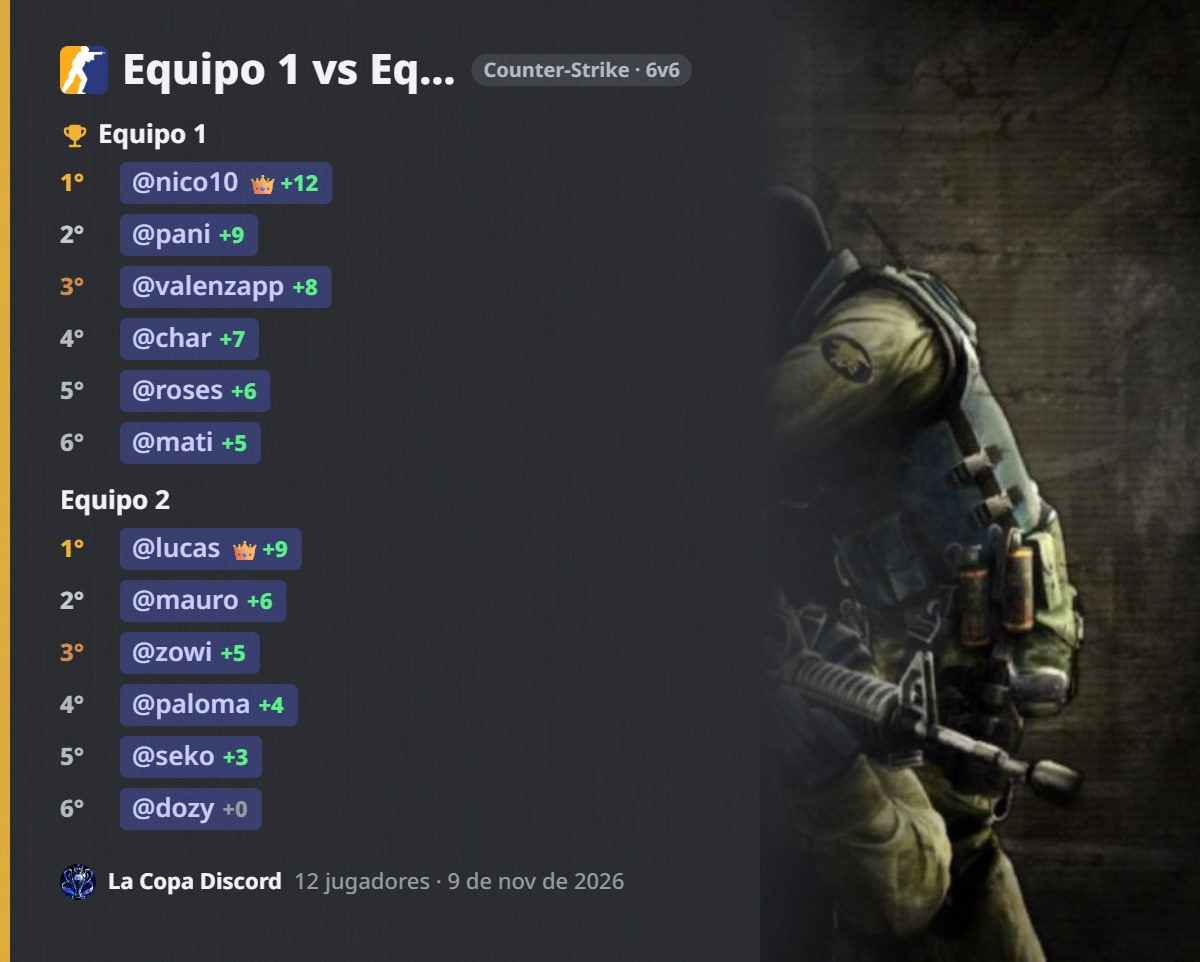
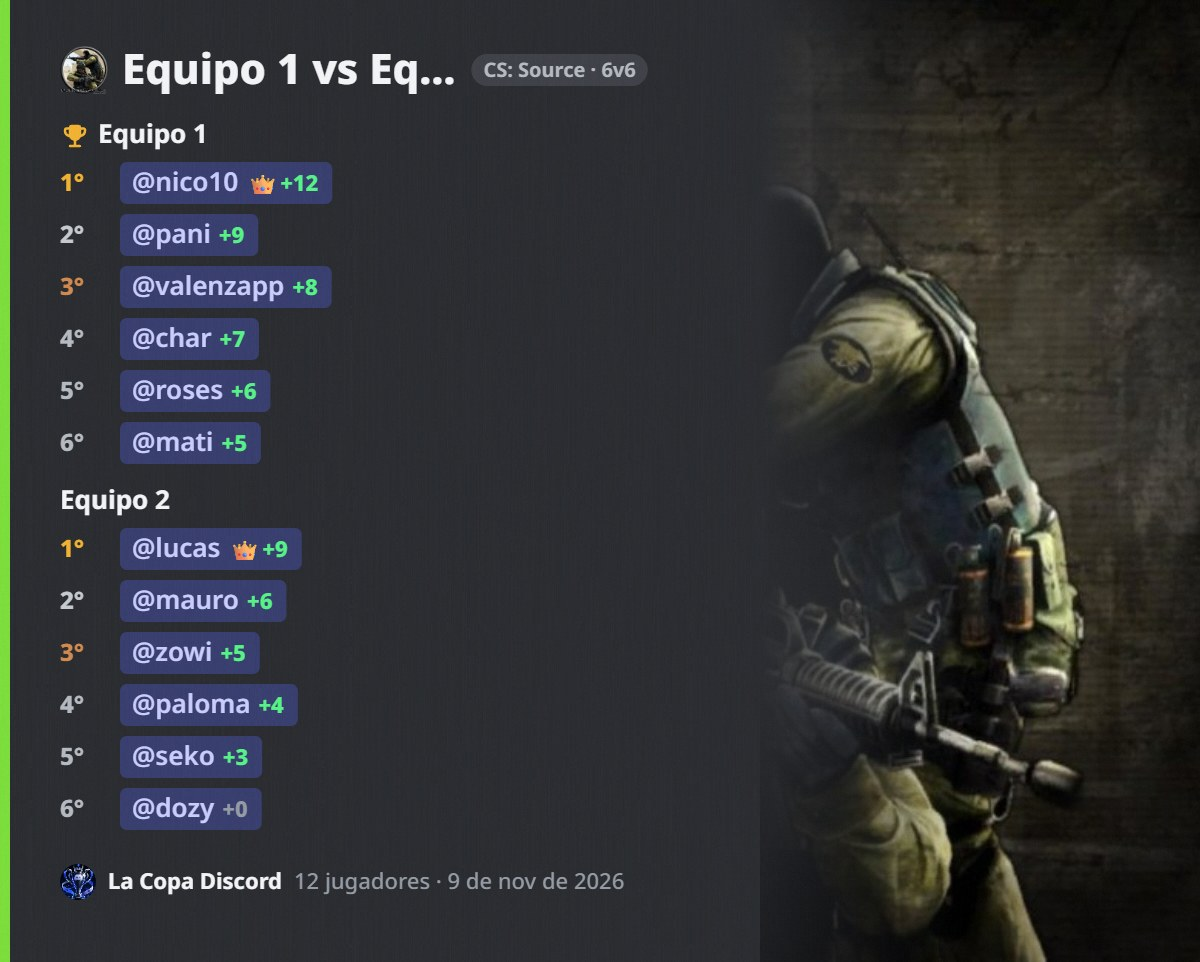
Actualizar tabla desde el modo admin

Changed region(s): [[0.0, 0.0, 0.0925, 1.0], [0.4008, 0.0624, 0.5858, 0.0936]]

diff --git a/p/mmw9wvdtkvdgi.html b/p/mmw9wvdtkvdgi.html
@@ -2,9 +2,9 @@
 <meta name="viewport" content="width=device-width,initial-scale=1">
 <meta property="og:site_name" content="La Copa Discord"><meta property="og:type" content="website">
 <meta property="og:title" content="Equipo 1 vs Equipo 2 · La Copa Discord"><meta property="og:description" content="Ganó Equipo 1 · MVP nico10, lucas · 9 de nov de 2026">
-<meta property="og:url" content="https://atlasgitgud.github.io/copa-discord/p/mmw9wvdtkvdgi.html"><meta property="og:image" content="https://atlasgitgud.github.io/copa-discord/p/mmw9wvdtkvdgi.jpg?v=mw9xlyeea3">
+<meta property="og:url" content="https://atlasgitgud.github.io/copa-discord/p/mmw9wvdtkvdgi.html"><meta property="og:image" content="https://atlasgitgud.github.io/copa-discord/p/mmw9wvdtkvdgi.jpg?v=mw9xqy7wtt">
 <meta property="og:image:width" content="1200"><meta property="og:image:height" content="962">
-<meta name="twitter:card" content="summary_large_image"><meta name="twitter:image" content="https://atlasgitgud.github.io/copa-discord/p/mmw9wvdtkvdgi.jpg?v=mw9xlyeea3">
-<meta name="theme-color" content="hsl(42,70%,55%)">
+<meta name="twitter:card" content="summary_large_image"><meta name="twitter:image" content="https://atlasgitgud.github.io/copa-discord/p/mmw9wvdtkvdgi.jpg?v=mw9xqy7wtt">
+<meta name="theme-color" content="hsl(96,70%,55%)">
 <meta http-equiv="refresh" content="0; url=../#p=mmw9wvdtkvdgi"></head>
 <body style="background:#313338;color:#dbdee1;font-family:system-ui,sans-serif"><script>location.replace('../#p=mmw9wvdtkvdgi')</script><p><a style="color:#00a8fc" href="../#p=mmw9wvdtkvdgi">Ver la partida en La Copa Discord</a></p></body></html>

diff --git a/data.js b/data.js
@@ -1,6 +1,6 @@
 // Datos de La Copa Discord. Se edita desde el canal #admin de la página.
 window.COPA_DATA = {
- "updatedAt": 1794269379767,
+ "updatedAt": 1794269525181,
  "players": [
   "agus",
   "alan",
@@ -996,7 +996,7 @@ window.COPA_DATA = {
   {
    "id": "mmw9wvdtkvdgi",
    "date": "2026-11-09",
-   "game": "CS",
+   "game": "CS_SOURCE",
    "kind": "team",
    "teams": [
     {
@@ -1021,22 +1021,22 @@ window.COPA_DATA = {
       "seko",
       "dozy"
      ],
-     "mvp": null
+     "mvp": "lucas"
     }
    ],
    "win": 0,
    "pts": {
-    "nico10": 4,
-    "pani": 4,
-    "valenzapp": 4,
-    "char": 4,
-    "roses": 4,
-    "mati": 4,
-    "lucas": 2,
-    "mauro": 1,
-    "zowi": 1,
-    "paloma": 1,
-    "seko": 1,
+    "nico10": 10,
+    "pani": 9,
+    "valenzapp": 8,
+    "char": 7,
+    "roses": 6,
+    "mati": 5,
+    "lucas": 7,
+    "mauro": 6,
+    "zowi": 5,
+    "paloma": 4,
+    "seko": 3,
     "dozy": 0
    },
    "score": null,
@@ -1066,7 +1066,8 @@ window.COPA_DATA = {
    ],
    "mvp": null,
    "mvps": [
-    "nico10"
+    "nico10",
+    "lucas"
    ]
   }
  ],
@@ -1128,8 +1129,8 @@ window.COPA_DATA = {
    "sig": "1j1dzs8"
   },
   "mmw9wvdtkvdgi": {
-   "v": "mw9x9578ff",
-   "sig": "1xcnutz"
+   "v": "mw9xqy7wtt",
+   "sig": "1y5ydbn"
   }
  }
 };
